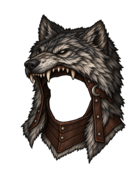
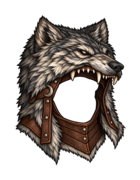
Correct direwolf helmet orientation and enlarge Alpha fur crown

diff --git a/src/direwolf-helmets.js b/src/direwolf-helmets.js
@@ -21,7 +21,7 @@ export const DIREWOLF_HELMET_ITEMS = Object.freeze([
 ]);
 export const DIREWOLF_HELMET_ART = Object.freeze({
   [DIREWOLF_LEATHER_HELMET]: Object.freeze({ icon: './assets/direwolf-helmets/leather-icon.png', portrait: './assets/direwolf-helmets/leather-portrait.png', left: 14, top: -26, width: 74, height: 110, hideHead: false, hideBeard: true }),
-  [DIREWOLF_ALPHA_HELMET]: Object.freeze({ icon: './assets/direwolf-helmets/alpha-icon.png', portrait: './assets/direwolf-helmets/alpha-portrait.png', left: 14, top: -26, width: 74, height: 110, hideHead: false, hideBeard: true }),
+  [DIREWOLF_ALPHA_HELMET]: Object.freeze({ icon: './assets/direwolf-helmets/alpha-icon.png', portrait: './assets/direwolf-helmets/alpha-portrait.png', left: 0, top: -39, width: 86, height: 124, hideHead: false, hideBeard: true }),
 });
 export const DIREWOLF_HELMET_RECIPES = Object.freeze({
   [DIREWOLF_LEATHER_HELMET]: Object.freeze({ itemId: DIREWOLF_LEATHER_HELMET, fee: 300, materialIds: Object.freeze([DIREWOLF_HIDE]) }),

diff --git a/tests/direwolf-helmets.test.js b/tests/direwolf-helmets.test.js
@@ -117,6 +117,6 @@ test('craft-only helmets never spawn in ordinary stock and transparent sprites a
   }
   for (const finish of ['leather', 'alpha']) for (const layer of ['icon', 'portrait']) {
     const path = `./assets/direwolf-helmets/${finish}-${layer}.png`, png = decodePng(readFileSync(new URL('../' + path, import.meta.url)));
-    assert.deepEqual([png.width, png.height], layer === 'portrait' ? [74, 110] : [140, 180]); assert.equal(png.rgba[3], 0); assert.ok(cache.has(path));
+    assert.deepEqual([png.width, png.height], layer === 'portrait' ? (finish === 'alpha' ? [86, 124] : [74, 110]) : [140, 180]); assert.equal(png.rgba[3], 0); assert.ok(cache.has(path));
   }
 });

diff --git a/sw.js b/sw.js
@@ -1,5 +1,5 @@
 // Generated by tools/build-cache.mjs. Do not edit by hand.
-const CACHE = "ashen-company-a2dbe5dda5bc4ad0";
+const CACHE = "ashen-company-c42f1abe46611937";
 const ASSETS = [
   "./",
   "./index.html",

diff --git a/design-qa.md b/design-qa.md
@@ -36,6 +36,13 @@ Integration checks include all nine Direwolf body/head pairings and Direwolf Fur
 trophy completion in either attachment slot. Version-8 battles stay unfitted;
 new version-9 battles preserve raw wear through save/reload and retreat.
 
+Orientation correction: the initial new helmet crowns faced left against the
+right-facing character. Both masters and their inventory/portrait sprites now
+face right. Alpha also has a larger wolf head and thicker fur; its 86x124 worn
+layer has its own anchor to keep the face aperture aligned. Re-inspected the
+updated worn lineup at 160px and 80px. The larger Alpha silhouette and muzzle
+remain distinct without covering the character's eyes.
+
 No unresolved P0/P1/P2 findings. Physical-device Safari remains untested.
 
 final result: passed
